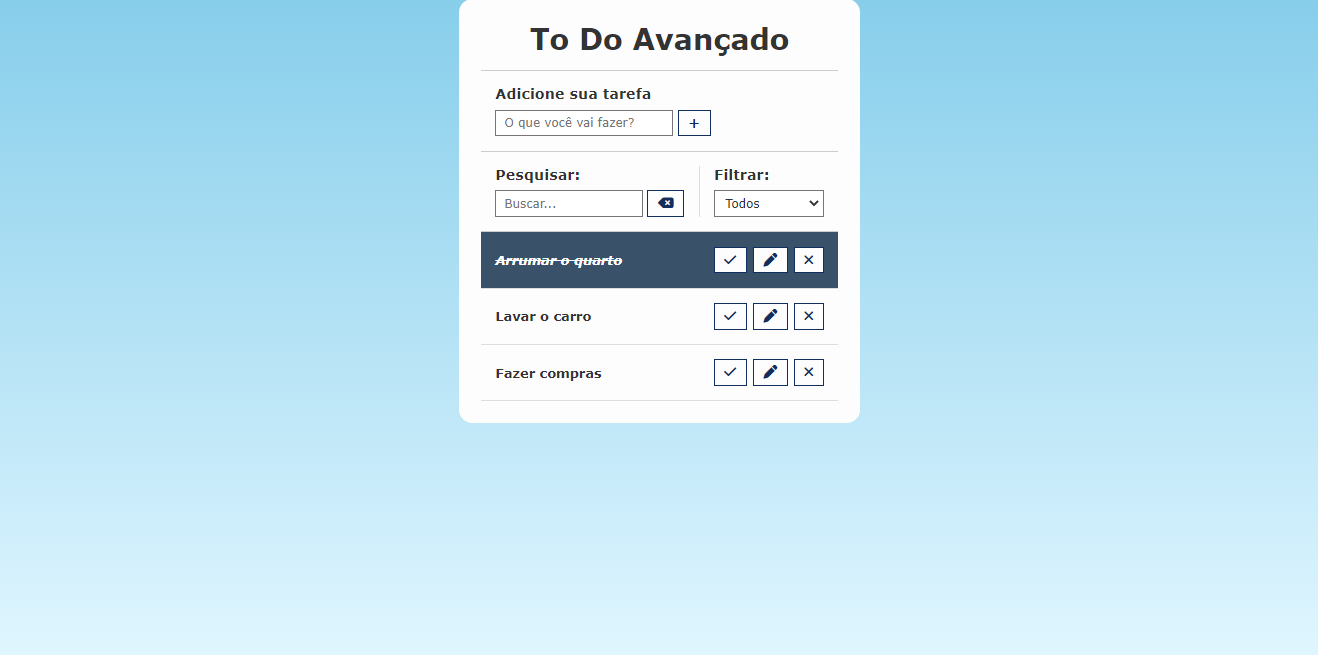
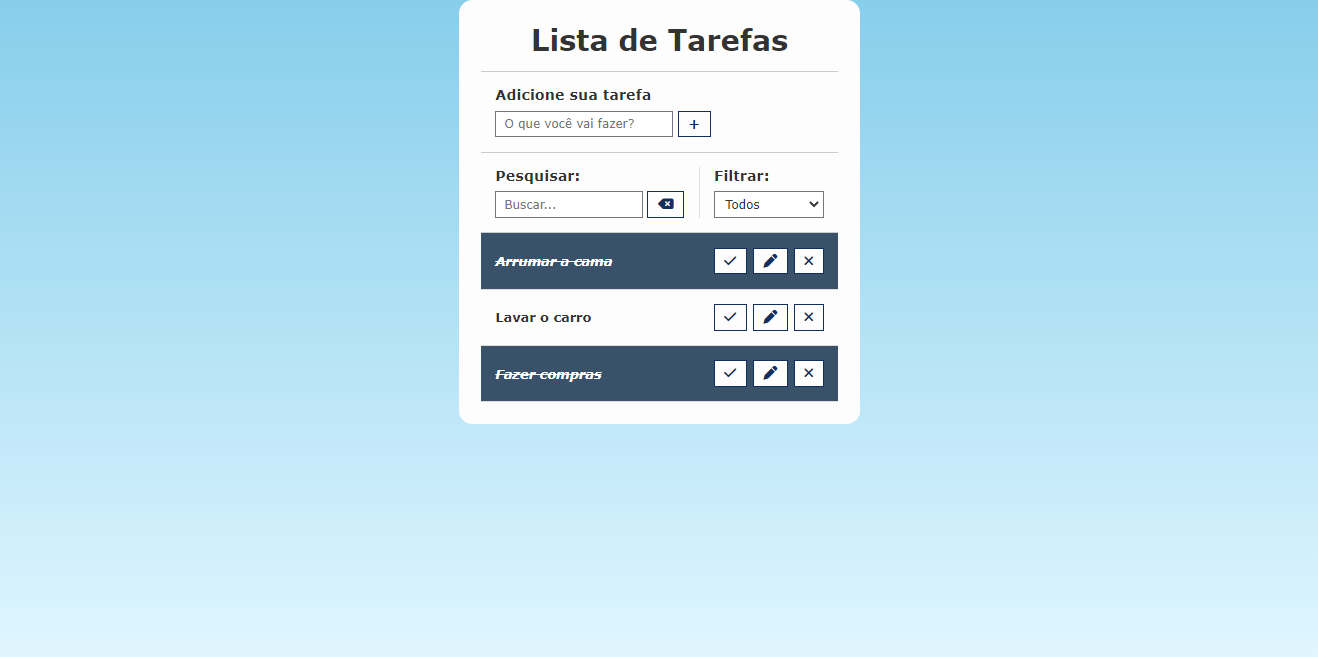
atualização do README

diff --git a/pages/index.html b/pages/index.html
@@ -20,7 +20,7 @@
   <body>
     <div class="todo-container">
       <header>
-        <h1>To Do Avançado</h1>
+        <h1>Lista de Tarefas</h1>
       </header>
       <form id="todo-form">
         <p>Adicione sua tarefa</p>

diff --git a/README.md b/README.md
@@ -1,2 +1,30 @@
 # TO-DO-LIST
 Simples programa em Javascript que organiza tarefas a serem realizadas
+
+## O projeto
+<p aling = "center">
+  <img src="./assets/main_image.png">
+</p>
+
+## Resumo
+Este projeto tem como objetivo a criação de uma lista de tarefas simpes do quel seja possível gerenciar tarefas de forma pratica.
+<p>Futuramente serão adicionados:</p>
+
+
+| Recurso | Prioridade |
+| ------ | ------ |
+| Sistema de pesquisa| 1 |
+| Sistema de filtro | 1 |
+| Salvar tarefas via json | 2 |
+| Consumir o arquivo json | 2 |
+
+## Como rodar
+
+### No Visual Studio Code ou via Browser
+Realize o download do projeto e execute a pagina index.html
+
+## Dependencias
+Este projeto não possui dependências.
+
+## Esta aplicação utiliza: 
+JAVASCRIPT, HTML5, CSS3 e GIT
